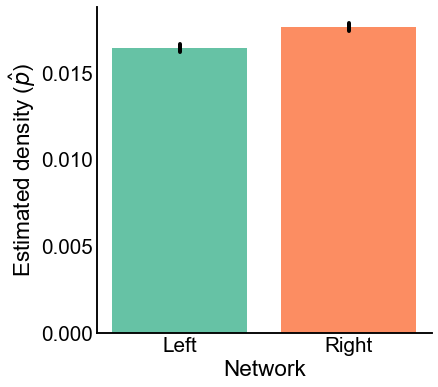
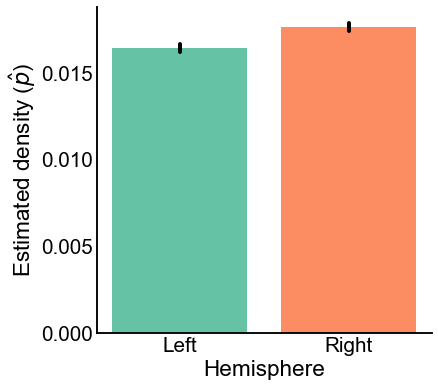
deploy: 5e97040d534044bf11b9d2e51780bc13a69c83ab

Changed region(s): [[0.4452, 0.9302, 0.742, 0.9922]]

diff --git a/er_unmatched_test.html b/er_unmatched_test.html
@@ -513,7 +513,7 @@ alternative hypotheses above.</p>
 <span class="n">ax</span><span class="o">.</span><span class="n">plot</span><span class="p">([</span><span class="mi">1</span><span class="p">,</span> <span class="mi">1</span><span class="p">],</span> <span class="p">[</span><span class="n">right_lower</span><span class="p">,</span> <span class="n">right_upper</span><span class="p">],</span> <span class="n">color</span><span class="o">=</span><span class="s2">&quot;black&quot;</span><span class="p">,</span> <span class="n">linewidth</span><span class="o">=</span><span class="mi">4</span><span class="p">)</span>
 
 <span class="n">ax</span><span class="o">.</span><span class="n">set</span><span class="p">(</span>
-    <span class="n">xlabel</span><span class="o">=</span><span class="s2">&quot;Network&quot;</span><span class="p">,</span>
+    <span class="n">xlabel</span><span class="o">=</span><span class="s2">&quot;Hemisphere&quot;</span><span class="p">,</span>
     <span class="n">xticks</span><span class="o">=</span><span class="p">[</span><span class="mi">0</span><span class="p">,</span> <span class="mi">1</span><span class="p">],</span>
     <span class="n">xticklabels</span><span class="o">=</span><span class="p">[</span><span class="s2">&quot;Left&quot;</span><span class="p">,</span> <span class="s2">&quot;Right&quot;</span><span class="p">],</span>
     <span class="n">ylabel</span><span class="o">=</span><span class="sa">r</span><span class="s2">&quot;Estimated density ($\hat</span><span class="si">{p}</span><span class="s2">$)&quot;</span><span class="p">,</span>
